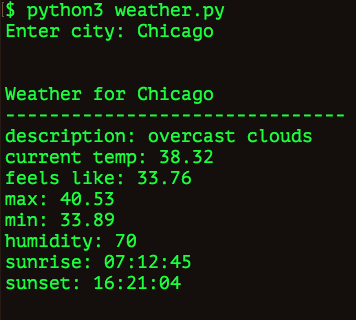
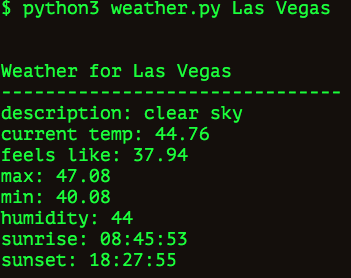
Refactored code

diff --git a/weather.py b/weather.py
@@ -1,10 +1,17 @@
 from requests import get
 from time import ctime
 import json
+import sys
+
+if len(sys.argv) < 2:
+    print('Usage: quickWeather.py city')
+    sys.exit()
 
 api = "7abc90b6e62ee65b20c0b8b02c00e4ee"
 url = "http://api.openweathermap.org/data/2.5/weather?"
-city_name = input("Enter city: ")
+#city_name = input("Enter city: ")
+
+city_name = ' '.join(sys.argv[1:])
 fullUrl = url + "appid=" + api + "&q=" + city_name + "&units=imperial"
 response = get(fullUrl)
 x = response.json()
